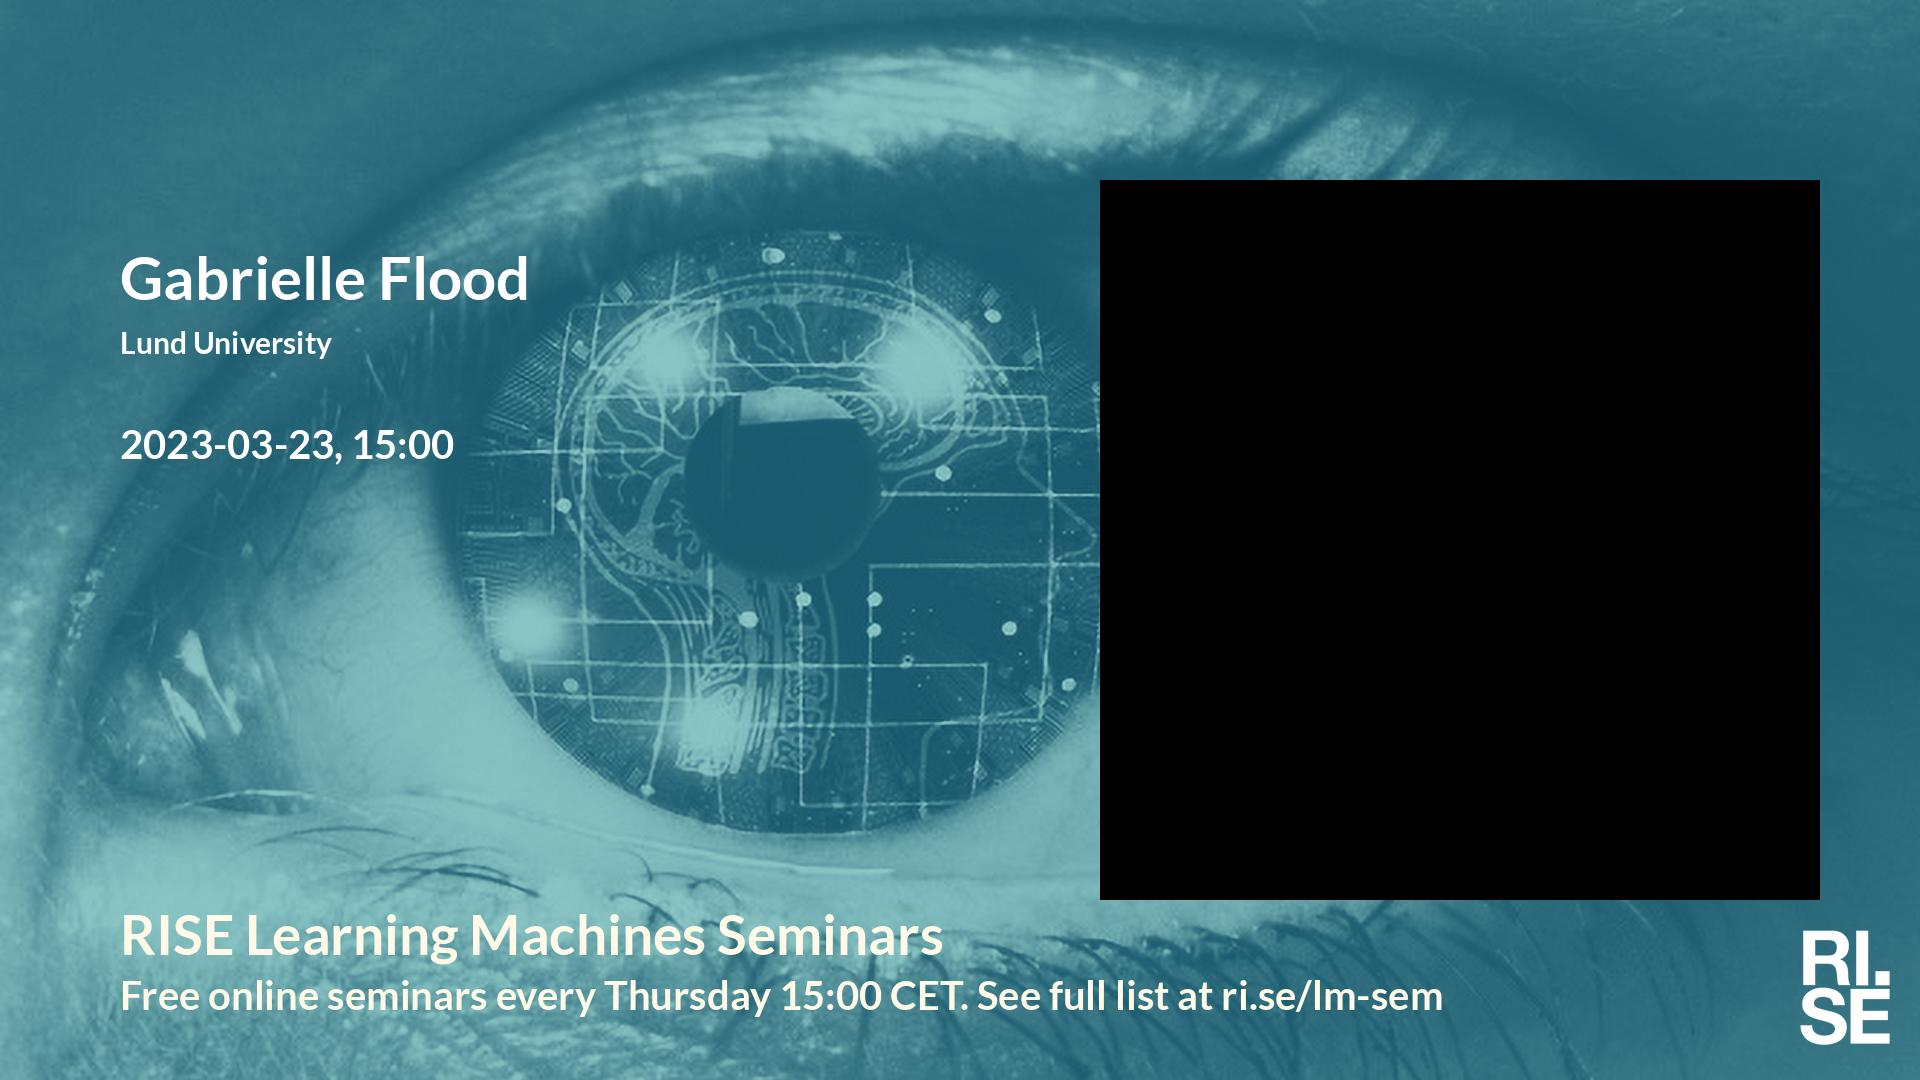
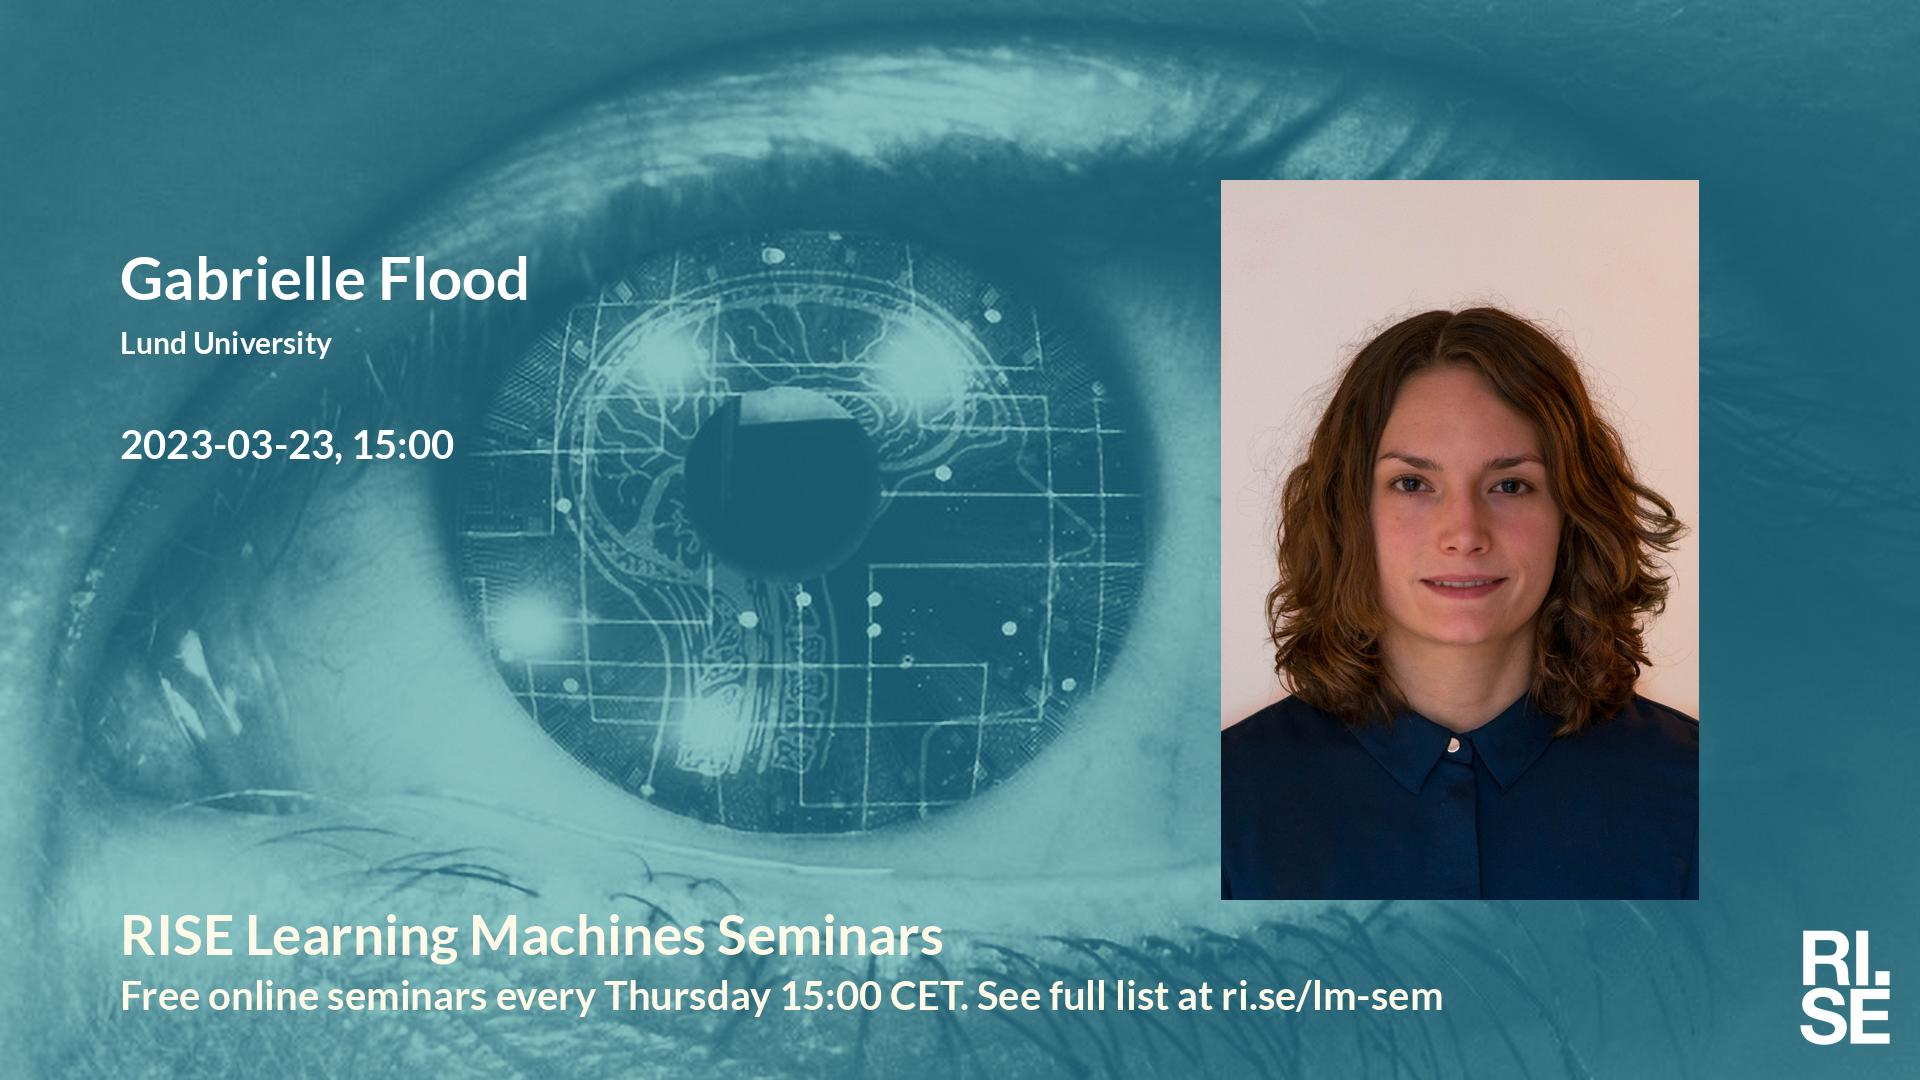
Updated plan on web site.

Changed region(s): [[0.5625, 0.1528, 0.9688, 0.8556]]

diff --git a/lm/index.md b/lm/index.md
@@ -17,7 +17,7 @@ table {border-collapse: collapse;}
 | <span style="color:red"> 2023-03-02 </span> | <span style="color:red"> Sportlov-STHLM </span> | <span style="color:red">  </span> | <span style="color:red">  </span> | <span style="color:red">  </span> | <span style="color:red">  </span> | <span style="color:red"> CANCELLED </span> |
 |  2023-03-09  |  [Shay Cohen, University of Edinburgh](2023-03-09.md)  |  [photo](photo-shay-cohen.jpg)  |  [social media ](social-media-shay-cohen.jpg)  |  [meeting backdrop ](meeting-backdrop-shay-cohen.jpg)  |  [youtube thumbnail ](youtube-thumbnail-shay-cohen.jpg)  |  S~~TAB~~P  |
 |  2023-03-16  |  [Stefanos Georganos, Karlstad University/KTH](2023-03-16.md)  |  [photo](photo-stefanos-georganos.jpg)  |  [social media ](social-media-stefanos-georganos.jpg)  |  [meeting backdrop ](meeting-backdrop-stefanos-georganos.jpg)  |  [youtube thumbnail ](youtube-thumbnail-stefanos-georganos.jpg)  |  STABP  |
-|  2023-03-23  |  [Gabrielle Flood, Lund University](2023-03-23.md)  |    |  [social media ](social-media-gabrielle-flood.jpg)  |  [meeting backdrop ](meeting-backdrop-gabrielle-flood.jpg)  |  [youtube thumbnail ](youtube-thumbnail-gabrielle-flood.jpg)  |  S~~TABP~~  |
+|  2023-03-23  |  [Gabrielle Flood, Lund University](2023-03-23.md)  |  [photo](photo-gabrielle-flood.jpg)  |  [social media ](social-media-gabrielle-flood.jpg)  |  [meeting backdrop ](meeting-backdrop-gabrielle-flood.jpg)  |  [youtube thumbnail ](youtube-thumbnail-gabrielle-flood.jpg)  |  S~~TAB~~P  |
 |  2023-03-30  |  [Puzhao Zhang, KTH](2023-03-30.md)  |  [photo](photo-puzhao-zhang.jpg)  |  [social media ](social-media-puzhao-zhang.jpg)  |  [meeting backdrop ](meeting-backdrop-puzhao-zhang.jpg)  |  [youtube thumbnail ](youtube-thumbnail-puzhao-zhang.jpg)  |  S~~TAB~~P  |
 | <span style="color:red"> 2023-04-06 </span> | <span style="color:red"> Påsklov/Skärtorsdag </span> | <span style="color:red">  </span> | <span style="color:red">  </span> | <span style="color:red">  </span> | <span style="color:red">  </span> | <span style="color:red"> CANCELLED </span> |
 |  2023-04-13  |  [Elijah Cole, Caltech](2023-04-13.md)  |  [photo](photo-elijah-cole.jpg)  |  [social media ](social-media-elijah-cole.jpg)  |  [meeting backdrop ](meeting-backdrop-elijah-cole.jpg)  |  [youtube thumbnail ](youtube-thumbnail-elijah-cole.jpg)  |  S~~TAB~~P  |
